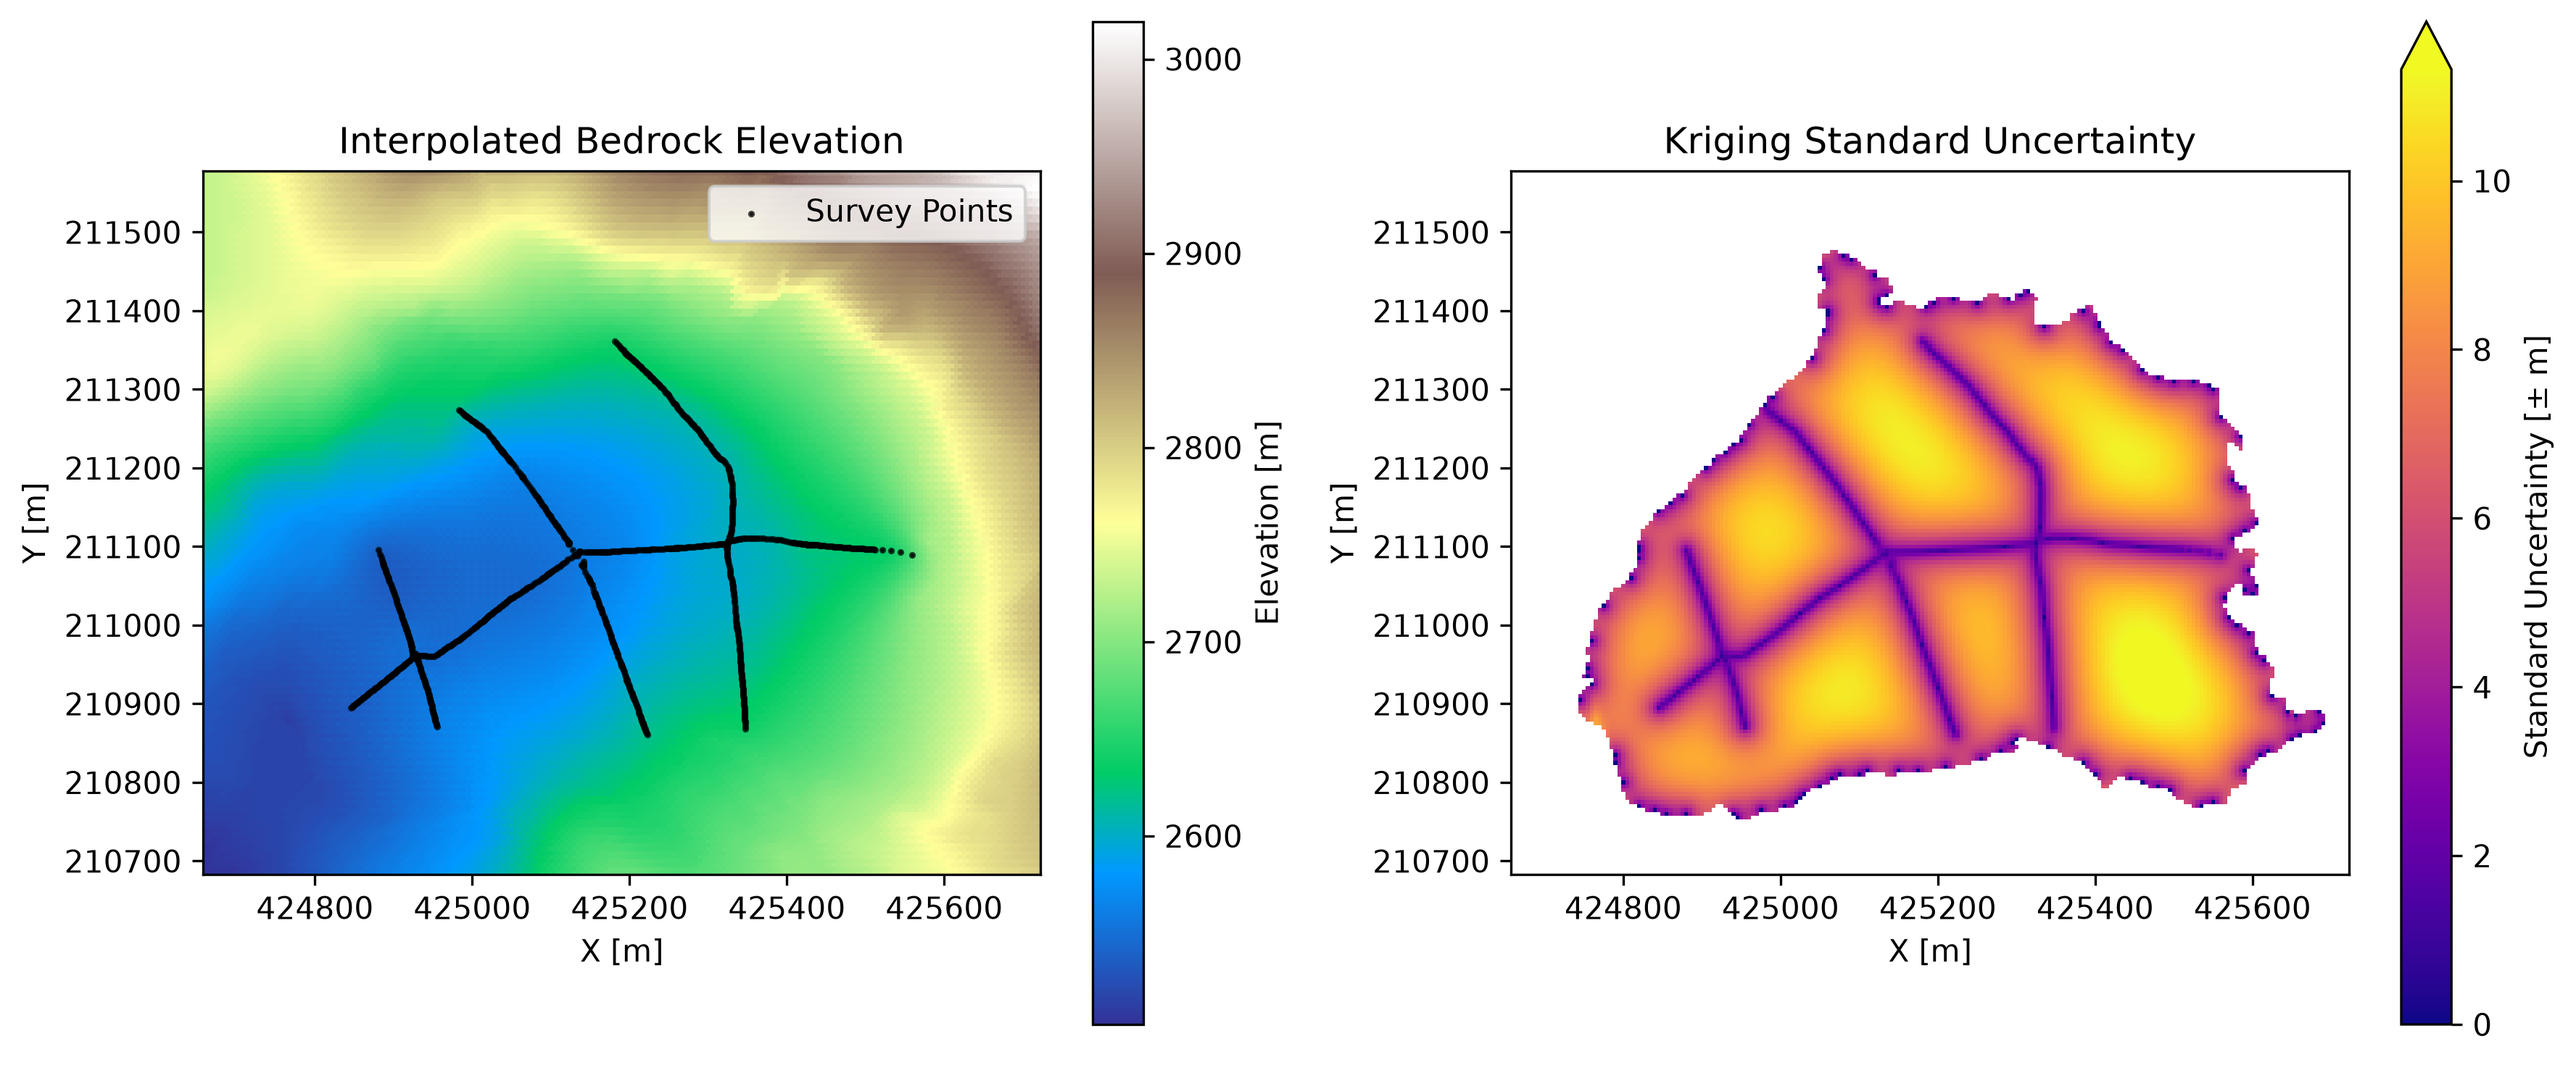
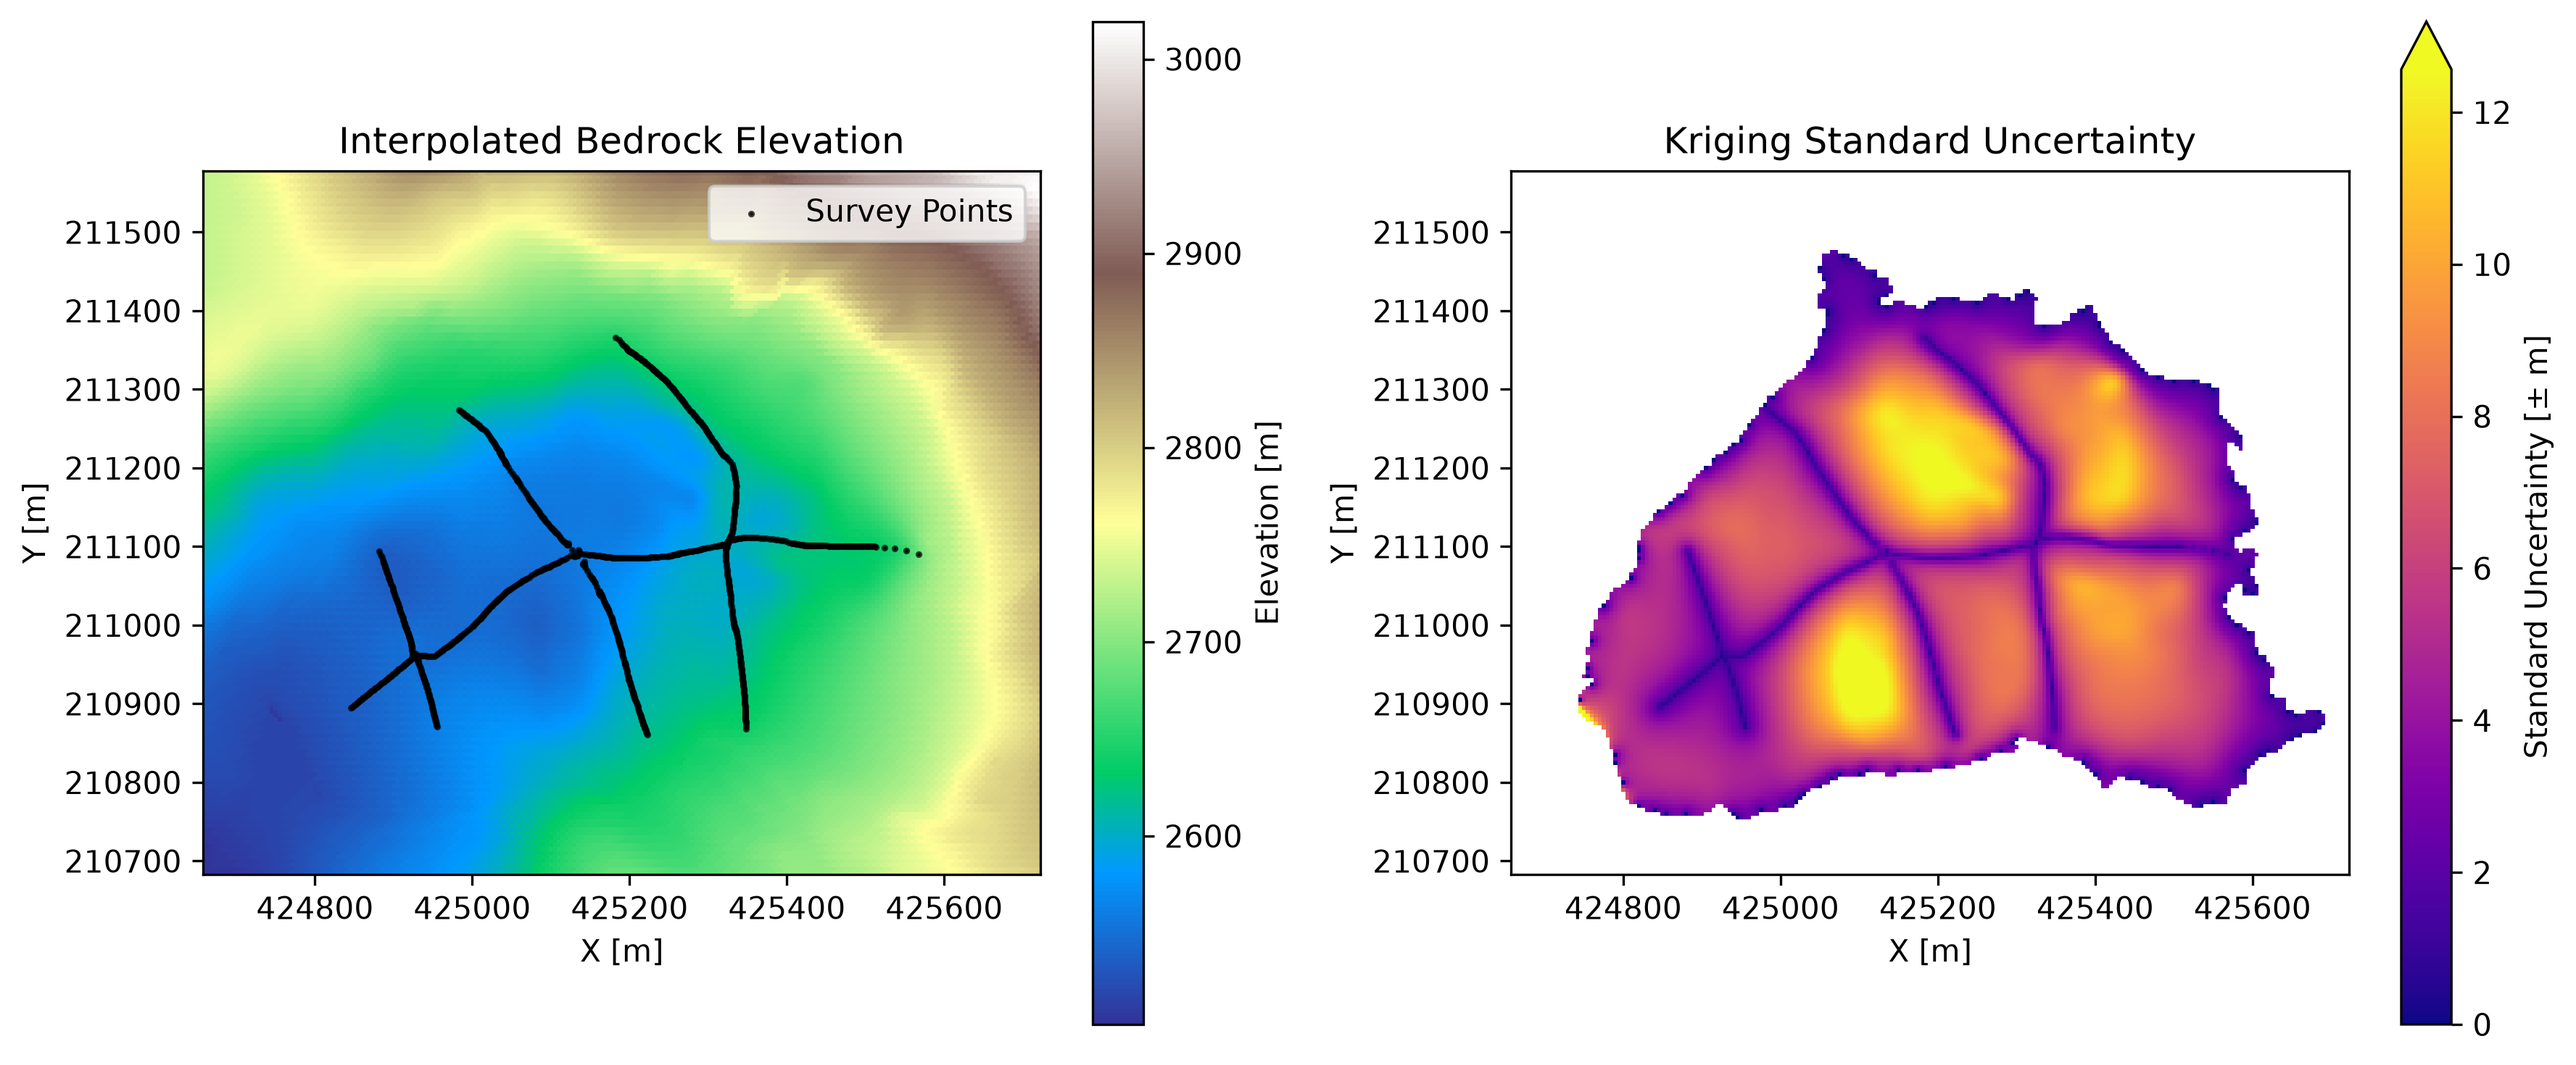
Modified README.md & pysole_package_structure.png

diff --git a/README.md b/README.md
@@ -242,13 +242,13 @@ All execution options can be fully defined in a single JSON configuration file, 
 | | `pre_migration` | `dict` | *Sub-section* | Configuration for pre-migration traveltime field, <i>T</i>(<i>x</i>,<i>y</i>), interpolation. |
 | | `pre_migration.interpolation_target` | `str` | `"P"` | Pre-migration interpolation targets: `"P"` for BSS-derived products (<i>P</i> = <i>T</i><sub>i</sub> · sin <i>α</i><sub>opt, i</sub>, default) or `"T"` for direct signal traveltimes (<i>T</i><sub>i</sub>). |
 | | `pre_migration.method` | `str` | `"ordinary"` | Kriging approach: `"ordinary"` (the default for `pre_migration.interpolation_target`: `"P"`), `"universal"` (the default for `pre_migration.interpolation_target`: `"T"`), or `"regression"` (only available for `engine`: `"pykrige"`). |
-| | `pre_migration.drift_terms` | `list[str]` | `[]` | Available drift models for Universal Kriging: `["sia"]` (SIA physical drift model - the default for `pre_migration.interpolation_target`: `"T"`), `["z_dem"]` (surface elevation drift model), `["curvature_dem"]` (surface curvature drift model), `["linear_xy"]` (1st-order linear coordinate trend), `["quadratic_xy"]` (2nd-order quadratic coordinate trend), or <i>combined multi-drift models</i> (e.g. `["z_dem", "curvature_dem", "quadratic_xy"]` - all available multi-drift models are described in the subsection "6. Universal Kriging Drift Models" in the "Technical & Methodological Notes"). If left empty `[]` (the default for `pre_migration.interpolation_target`: `"P"`) applies a constant mean, resulting in Ordinary Kriging. |
+| | `pre_migration.drift_terms` | `list[str]` | `[]` | `["sia"]` (SIA physical drift model - the default for `pre_migration.interpolation_target`: `"T"`). If left empty `[]` (the default for `pre_migration.interpolation_target`: `"P"`) applies a constant mean, resulting in Ordinary Kriging. All available single and combined multi-drift models are described in the subsection "6. Universal Kriging Drift Models" in the "Technical & Methodological Notes". |
 | | `pre_migration.variogram_model` | `str` | `"spherical"` | Theoretical variogram model (`"spherical"`, `"exponential"`, `"gaussian"`, `"linear"`). |
 | | `pre_migration.include_zero_boundary_condition` | `bool` | `true` | If `true` (default), includes zero traveltime boundary points (<i>T</i> = 0 s) along the perimeter and rock outcrop margin outline(s). |
 | | `post_migration` | `dict` | *Sub-section* | Configuration for final bedrock depth, <i>D</i>(<i>x</i>,<i>y</i>), interpolation. |
 | | `post_migration.interpolation_target` | `str` | `"P"` | Post-migration interpolation targets: `"P"` for BSS-derived products (<i>P</i> = <i>D</i><sub>i</sub> · sin <i>α</i><sub>opt, i</sub>, default) or `"T"` for direct (migrated) depths (<i>D</i><sub>i</sub>). |
 | | `post_migration.method` | `str` | `"ordinary"` | Kriging approach: `"ordinary"` (the default for `post_migration.interpolation_target`: `"P"`), `"universal"` (the default for `post_migration.interpolation_target`: `"T"`), or `"regression"` (only available for `engine`: `"pykrige"`). |
-| | `post_migration.drift_terms` | `list[str]` | `[]` | Available drift models for Universal Kriging: `["sia"]` (SIA physical drift model, the default for `post_migration.interpolation_target`: `"D"`), `["z_dem"]` (surface elevation drift model), `["curvature_dem"]` (surface curvature drift model), `["linear_xy"]` (1st-order linear coordinate trend), `["quadratic_xy"]` (2nd-order quadratic coordinate trend), or <i>combined multi-drift models</i> (e.g. `["z_dem", "curvature_dem", "quadratic_xy"]` - all available multi-drift models are described in the subsection "6. Universal Kriging Drift Models" in the "Technical & Methodological Notes"). If left empty `[]` (the default for `post_migration.interpolation_target`: `"P"`) applies a constant mean, resulting in Ordinary Kriging. |
+| | `post_migration.drift_terms` | `list[str]` | `[]` |  `["sia"]` (SIA physical drift model - the default for `pre_migration.interpolation_target`: `"T"`). If left empty `[]` (the default for `pre_migration.interpolation_target`: `"P"`) applies a constant mean, resulting in Ordinary Kriging. All available single and combined multi-drift models are described in the subsection "6. Universal Kriging Drift Models" in the "Technical & Methodological Notes". |
 | | `post_migration.variogram_model` | `str` | `"spherical"` | Theoretical variogram model (`"spherical"`, `"exponential"`, `"gaussian"`, `"linear"`). |
 | | `post_migration.include_zero_boundary_condition` | `bool` | `true` | If `true` (default), includes zero thickness boundary points (<i>D</i> = 0 m) along the perimeter and rock outcrop margin outline(s). |
 | **`finalization_parameters`** | `random_forest_gap_filling` | `bool` | `false` | If `true`, applies Random Forest machine learning gap filling across unmeasured interior regions. |
@@ -339,8 +339,8 @@ While users can combine any available interpolation options, two primary strateg
 - **Direct `"T"` or `"D"` Strategy**: Directly interpolates signal traveltimes <i>T</i><sub>i</sub> (pre-migration), or (migrated) depths <i>D</i><sub>i</sub>. **Universal Kriging** with the `"sia"` drift model is recommended.
 
 <a id="universal-kriging-drift-models"></a>
-#### 6. Universal Kriging Drift Models
-The following drift models are implemented in `PySole` for Universal Kriging:
+#### 6. Universal Kriging Single and Combined Drift Models
+The following single drift models are implemented in `PySole` for Universal Kriging:
 
 - **Shallow Ice Approximation Physical Drift Model (`["sia"]`)**:
    `PySole` offers the physically-informed custom `"sia"` drift model. Re-arranging the basal shear stress <i>τ</i><sub>b</sub> for ice depth <i>D</i> yields the inverse relationship between <i>D</i>(<i>x</i>,<i>y</i>) and sin(<i>α</i><sub>opt</sub>(<i>x</i>,<i>y</i>)). Setting the drift term parameter to `["sia"]` informs Universal Kriging of the relative thickness distribution pattern driven directly by the optimized DEM surface slope:
@@ -377,8 +377,12 @@ The following drift models are implemented in `PySole` for Universal Kriging:
      <i>U</i>(<i>x</i>,<i>y</i>) = <i>a</i><sub>1</sub> <i>X</i> + <i>a</i><sub>2</sub> <i>Y</i> + <i>a</i><sub>3</sub> <i>X</i><sup>2</sup> + <i>a</i><sub>4</sub> <i>Y</i><sup>2</sup> + <i>a</i><sub>5</sub> <i>X Y</i>
    </p>
 
+- **Empty Drift Model (`[]`)**:
+   An empty drift model parameter assumes a constant local spatial mean (no external drift), which mathematically equates to an Ordinary Kriging approach.
+
+`PySole` natively supports combining external raster drift models (`["z_dem"]`, `["curvature_dem"]`, or `["sia"]`) with polynomial spatial coordinate trends (`["quadratic_xy"]` or `["linear_xy"]`) into an augmented multi-drift Universal Kriging system. The following combined drift configurations are available:
+
 - **Combined Multi-Drift Models**:
-   `PySole` natively supports combining external raster drift models (`["z_dem"]`, `["curvature_dem"]`, or `["sia"]`) with polynomial spatial coordinate trends (`["quadratic_xy"]` or `["linear_xy"]`) into an augmented multi-drift Universal Kriging system. The following combined drift configurations are available:
 
    1. **`["z_dem", "curvature_dem", "quadratic_xy"]` ($n_{\text{drift}} = 8$)**:
       Combines DEM elevation, surface curvature, and a 2nd-order spatial polynomial:
@@ -435,9 +439,6 @@ The following drift models are implemented in `PySole` for Universal Kriging:
         <i>U</i>(<i>x</i>,<i>y</i>) = <i>a</i><sub>1</sub> sin(<i>α</i><sub>opt</sub>(<i>x</i>,<i>y</i>))<sup>-1</sup> + <i>a</i><sub>2</sub> <i>X</i> + <i>a</i><sub>3</sub> <i>Y</i>
       </p>
       <i>Recommended for tilted valley glaciers governed by SIA physics and linear spatial trends (target `"T"` or `"D"`).</i>
-
-- **Empty Drift Model (`[]`)**:
-   An empty drift model parameter assumes a constant local spatial mean (no external drift), which mathematically equates to an Ordinary Kriging approach.
 
 <a id="depth-uncertainty-derivation"></a>
 #### 7. Depth Uncertainty Derivation in Meters
